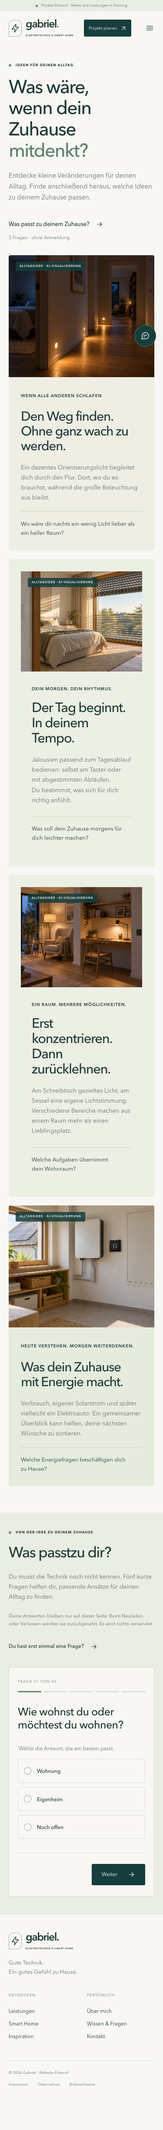
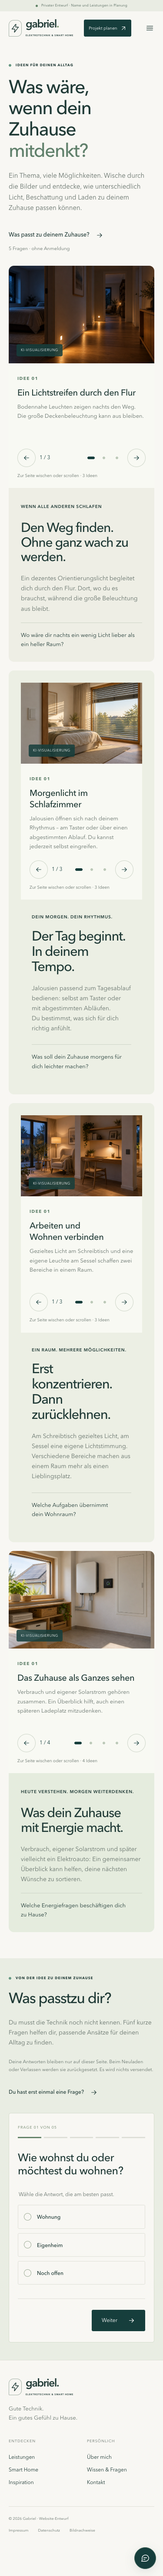
Inspirationsgalerien mit umlaufenden Bildern und 13 Alltagseindruecken ergaenzen

diff --git a/public/assets/inspiration-gallery.js b/public/assets/inspiration-gallery.js
@@ -1,0 +1,74 @@
+document.querySelectorAll('[data-gallery]').forEach(gallery => {
+  const track = gallery.querySelector('.gallery-track');
+  const slides = [...track.children];
+  const count = slides.length;
+  const dots = [...gallery.querySelectorAll('[data-gallery-dot]')];
+  const status = gallery.querySelector('.gallery-position');
+  const reducedMotion = matchMedia('(prefers-reduced-motion: reduce)');
+  let current = 0;
+  let settleTimer;
+
+  // A copy on either end lets a native swipe continue beyond the last image.
+  function clone(slide) {
+    const copy = slide.cloneNode(true);
+    copy.dataset.galleryClone = '';
+    copy.setAttribute('aria-hidden', 'true');
+    copy.inert = true;
+    return copy;
+  }
+  track.prepend(clone(slides[count - 1]));
+  track.append(clone(slides[0]));
+  track.classList.add('is-enhanced');
+
+  function update(index) {
+    current = ((index % count) + count) % count;
+    status.textContent = `${current + 1} / ${count}`;
+    dots.forEach((dot, i) => dot.setAttribute('aria-pressed', String(i === current)));
+    slides.forEach((slide, i) => slide.setAttribute('aria-hidden', String(i !== current)));
+  }
+  function jump(position) {
+    track.scrollTo({ left: position * track.getBoundingClientRect().width, behavior: 'instant' });
+  }
+  function settle() {
+    clearTimeout(settleTimer);
+    const width = track.getBoundingClientRect().width;
+    if (!width) return;
+    const position = Math.round(track.scrollLeft / width);
+    // Ignore partial swipes until native snapping has reached an image edge.
+    if (Math.abs(track.scrollLeft - position * width) > 2) return;
+    update(position - 1);
+    if (position === 0 || position === count + 1) jump(current + 1);
+  }
+  function go(position) {
+    track.scrollTo({
+      left: Math.max(0, Math.min(count + 1, position)) * track.getBoundingClientRect().width,
+      behavior: reducedMotion.matches ? 'instant' : 'smooth',
+    });
+  }
+  function step(delta) {
+    const position = Math.round(track.scrollLeft / track.getBoundingClientRect().width);
+    // Normalize a boundary copy before another quick button press.
+    if (position === 0) { jump(count); go(count + delta); }
+    else if (position === count + 1) { jump(1); go(1 + delta); }
+    else go(position + delta);
+  }
+  gallery.querySelector('[data-gallery-prev]').addEventListener('click', () => step(-1));
+  gallery.querySelector('[data-gallery-next]').addEventListener('click', () => step(1));
+  dots.forEach((dot, i) => dot.addEventListener('click', () => go(i + 1)));
+  track.addEventListener('keydown', event => {
+    if (!['ArrowLeft', 'ArrowRight', 'Home', 'End'].includes(event.key)) return;
+    event.preventDefault();
+    if (event.key === 'Home') go(1);
+    else if (event.key === 'End') go(count);
+    else step(event.key === 'ArrowRight' ? 1 : -1);
+  });
+  track.addEventListener('scroll', () => {
+    clearTimeout(settleTimer);
+    settleTimer = setTimeout(settle, 150);
+  }, { passive: true });
+  track.addEventListener('scrollend', settle);
+  new ResizeObserver(() => jump(current + 1)).observe(track);
+  jump(1);
+  update(0);
+  gallery.querySelector('.gallery-controls').hidden = false;
+});

diff --git a/public/assets/inspiration-gallery.css b/public/assets/inspiration-gallery.css
@@ -1,0 +1,30 @@
+.inspiration-grid > article { min-width: 0; border-radius: 12px; }
+.inspiration-gallery { min-width: 0; background: #f8f9f3; align-self: stretch; display: flex; flex-direction: column; }
+.gallery-track { display: flex; overflow-x: auto; overscroll-behavior-x: contain; scroll-snap-type: x mandatory; min-width: 0; direction: ltr; }
+.gallery-track.is-enhanced { scrollbar-width: none; }
+.gallery-track.is-enhanced::-webkit-scrollbar { display: none; }
+.gallery-track:focus-visible { outline: 3px solid #60806b; outline-offset: -3px; }
+.gallery-slide { flex: 0 0 100%; min-width: 0; scroll-snap-align: start; scroll-snap-stop: always; }
+.gallery-photo { position: relative; overflow: hidden; }
+.inspiration-gallery .gallery-photo img { width: 100%; height: auto; min-height: 0; aspect-ratio: 3 / 2; object-fit: cover; }
+.gallery-image-label { position: absolute; left: 18px; bottom: 16px; padding: 7px 10px; background: #163e3cdb; border-radius: 4px; font-size: 8px; letter-spacing: .1em; color: white; }
+.gallery-slide figcaption { padding: 24px 26px 12px; }
+.gallery-kicker { color: #60806b; font-size: 10px; letter-spacing: .14em; font-weight: 700; }
+.gallery-slide h3 { font-size: 21px; line-height: 1.3; margin: 9px 0; letter-spacing: -.02em; }
+.inspiration-gallery .gallery-slide p { color: var(--muted); font-size: 13px; line-height: 1.65; max-width: none; margin: 0; }
+.gallery-controls { display: flex; align-items: center; gap: 12px; padding: 12px 26px 0; margin-top: auto; }
+.gallery-controls[hidden] { display: none; }
+.gallery-controls > button { display: grid; place-items: center; flex: 0 0 42px; height: 42px; border: 1px solid #cdd5c8; border-radius: 50%; background: transparent; color: var(--petrol); cursor: pointer; }
+.gallery-controls .icon { width: 18px; height: 18px; }
+.gallery-position { font-size: 12px; font-variant-numeric: tabular-nums; color: var(--petrol); white-space: nowrap; }
+.gallery-dots { display: flex; justify-content: center; margin-left: auto; }
+.gallery-dots button { border: 0; border-radius: 50%; background: transparent; padding: 0; width: 30px; height: 36px; display: grid; place-items: center; cursor: pointer; }
+.gallery-dots span { width: 6px; height: 6px; border-radius: 50%; background: #bcc9b8; }
+.gallery-dots [aria-pressed="true"] span { background: var(--petrol); width: 17px; border-radius: 5px; }
+.inspiration-gallery .gallery-hint { padding: 12px 26px 20px; margin: 0; font-size: 10px; color: var(--muted); }
+@media (max-width: 680px) {
+  .gallery-slide figcaption { padding: 20px 20px 10px; }
+  .gallery-controls { padding: 10px 20px 0; gap: 9px; }
+  .gallery-slide h3 { font-size: 20px; }
+  .inspiration-gallery .gallery-hint { padding: 12px 20px 20px; }
+}

diff --git a/docs/INSPIRATION-BILDPROMPTS.md b/docs/INSPIRATION-BILDPROMPTS.md
@@ -33,3 +33,87 @@ Datei: [`public/assets/inspiration-energie.jpg`](../public/assets/inspiration-en
 ```text
 Use case: photorealistic-natural. Asset type: landscape 3:2 editorial architectural photograph for a German residential electrical and smart-home website. Calm realistic modest contemporary European home, warm oak and off-white plaster, muted natural materials, restrained premium photography. No people, no logos, no words, no watermark, no collage, no diagrams, no exaggerated mansion, no futuristic gadgets. A tidy modest private home's finished utility room, a closed flush-mounted off-white electrical distribution cabinet in the wall, no open parts, a compact closed unbranded wall-mounted inverter with properly enclosed neat conduits and a small closed energy display showing ONLY a simple abstract icon, no letters, no numbers, no plotted values. View through small side window shows a sliver of ordinary tiled roof with solar modules outside. Natural daylight, oak utility shelf, technically plausible normal residential scale. Main subject is clear planning and understanding of household energy, no wallbox or car, no exposed wires or tools.
 ```
+
+## Bildergalerien vom 30.10.2026
+
+Acht weitere Motive mit dem eingebauten Imagegen-Werkzeug erstellt. Originale bleiben erhalten; für die Website mit `sips` als JPEG, Qualität 82, 1536 × 1024 gespeichert. Alle Motive wurden visuell geprüft. Die Galerie verwendet zusätzlich die vier bisherigen Inspirationsbilder und das bestehende Carport-Motiv `public/assets/energie-wallbox.jpg`; dessen Prompt steht in [BILDPROMPTS.md](BILDPROMPTS.md). Insgesamt 13 Ansichten. Keine realen Kundenprojekte oder Produktnachweise.
+
+### nachtlicht-treppe
+
+Datei: `public/assets/inspiration-nachtlicht-treppe.jpg`
+
+Original: `/Users/gabrielyousef/.codex/generated_images/01a18eb2-a3e2-7fe1-a41d-a6e11549c668/exec-e2becb17-685f-405c-8a20-87e00760ca1a.png`
+
+```text
+Use case: photorealistic-natural. Asset type: landscape 3:2 editorial architectural photograph for a German residential electrical and smart-home inspiration gallery. Realistic modest contemporary European home, oak and off-white plaster, calm natural materials, professional residential photography. No people, logos, text, watermark, collage, futuristic gadgets, exposed wiring or exaggerated mansion. Night interior of a modest home staircase with safe enclosed steps and simple handrail, small recessed warm wall lights low along the staircase gently illuminating each tread. Main ceiling lights off. Wide view clearly showing practical orientation lighting and the entire stair route, quiet blue shadows.
+```
+
+### nachtlicht-bett
+
+Datei: `public/assets/inspiration-nachtlicht-bett.jpg`
+
+Original: `/Users/gabrielyousef/.codex/generated_images/01a18eb2-a3e2-7fe1-a41d-a6e11549c668/exec-c24829c9-2931-47c5-a9c9-73ff89c31cc6.png`
+
+```text
+Use case: photorealistic-natural. Asset type: landscape 3:2 editorial architectural photograph for a German residential electrical and smart-home inspiration gallery. Realistic modest contemporary European home, oak and off-white plaster, calm natural materials, professional residential photography. No people, logos, text, watermark, collage, futuristic gadgets, exposed wiring or exaggerated mansion. Serene bedroom at night, a discreet concealed warm low-level light beneath the bed frame softly illuminating the floor and a clear path toward the bedroom door. Main lights off, modest linen bed, calm dark blue ambient shadows, wide view of bed and floor. No bright LED color effects.
+```
+
+### beschattung-wohnen
+
+Datei: `public/assets/inspiration-beschattung-wohnen.jpg`
+
+Original: `/Users/gabrielyousef/.codex/generated_images/01a18eb2-a3e2-7fe1-a41d-a6e11549c668/exec-dadffa68-22b4-4c93-acf2-77d22bbdfb31.png`
+
+```text
+Use case: photorealistic-natural. Asset type: landscape 3:2 editorial architectural photograph for a German residential electrical and smart-home inspiration gallery. Realistic modest contemporary European home, oak and off-white plaster, calm natural materials, professional residential photography. No people, logos, text, watermark, collage, futuristic gadgets, exposed wiring or exaggerated mansion. A modest bright living room on a sunny afternoon, large windows with clearly visible exterior venetian blind slats tilted to shade direct sun while admitting soft daylight. Sofa, houseplant and oak sideboard, simple unbranded wall push button. Interior three-quarter view, focus on slats and pleasant shaded room.
+```
+
+### beschattung-terrasse
+
+Datei: `public/assets/inspiration-beschattung-terrasse.jpg`
+
+Original: `/Users/gabrielyousef/.codex/generated_images/01a18eb2-a3e2-7fe1-a41d-a6e11549c668/exec-ce9688a5-0cb8-4908-89c1-1dfa3b3ff608.png`
+
+```text
+Use case: photorealistic-natural. Asset type: landscape 3:2 editorial architectural photograph for a German residential electrical and smart-home inspiration gallery. Realistic modest contemporary European home, oak and off-white plaster, calm natural materials, professional residential photography. No people, logos, text, watermark, collage, futuristic gadgets, exposed wiring or exaggerated mansion. View from a modest family home's terrace towards its open living room, a simple extended exterior fabric retractable awning shading outdoor table and chairs. Natural summer daylight, realistic restrained architecture, ordinary garden, relaxed practical sun protection. Clearly show awning and shaded terrace, no luxury swimming pool.
+```
+
+### licht-kueche
+
+Datei: `public/assets/inspiration-licht-kueche.jpg`
+
+Original: `/Users/gabrielyousef/.codex/generated_images/01a18eb2-a3e2-7fe1-a41d-a6e11549c668/exec-22cbb3c9-5c8b-4031-b02d-9c0683146e3c.png`
+
+```text
+Use case: photorealistic-natural. Asset type: landscape 3:2 editorial architectural photograph for a German residential electrical and smart-home inspiration gallery. Realistic modest contemporary European home, oak and off-white plaster, calm natural materials, professional residential photography. No people, logos, text, watermark, collage, futuristic gadgets, exposed wiring or exaggerated mansion. A practical modest contemporary kitchen at blue hour. Concealed warm white lighting beneath upper cupboards clearly illuminating the worktop, separate pendants above a small dining table. No decorative color strips, no open wiring, no people. Medium wide eye-level view showing two useful distinct lighting areas.
+```
+
+### licht-lesen
+
+Datei: `public/assets/inspiration-licht-lesen.jpg`
+
+Original: `/Users/gabrielyousef/.codex/generated_images/01a18eb2-a3e2-7fe1-a41d-a6e11549c668/exec-7b6ec26c-da9f-41f9-a956-8b05b26f2112.png`
+
+```text
+Use case: photorealistic-natural. Asset type: landscape 3:2 editorial architectural photograph for a German residential electrical and smart-home inspiration gallery. Realistic modest contemporary European home, oak and off-white plaster, calm natural materials, professional residential photography. No people, logos, text, watermark, collage, futuristic gadgets, exposed wiring or exaggerated mansion. A cozy compact living room reading corner at evening, comfortable armchair with a switched-on floor reading lamp directing warm light onto a book resting on the seat, separate very soft indirect light behind a low sideboard. Main overhead light off, calm oak and linen interior, no words on book, eye level photograph.
+```
+
+### wallbox-garage
+
+Datei: `public/assets/inspiration-wallbox-garage.jpg`
+
+Original: `/Users/gabrielyousef/.codex/generated_images/01a18eb2-a3e2-7fe1-a41d-a6e11549c668/exec-aece74a8-9854-4e49-9403-0721ba73bf78.png`
+
+```text
+Use case: photorealistic-natural. Asset type: landscape 3:2 editorial architectural photograph for a German residential electrical and smart-home inspiration gallery. Realistic modest contemporary European home, oak and off-white plaster, calm natural materials, professional residential photography. No people, logos, text, watermark, collage, futuristic gadgets, exposed wiring or exaggerated mansion. Inside an ordinary tidy private single-car garage, unbranded closed compact wallbox mounted on the side wall with one neatly routed charging cable visibly plugged into the charging port of a parked electric car. Car shown in three-quarter rear side view with wallbox and connection both clearly visible. Proper enclosed conduit, practical clear walking route, closed electrical equipment, neutral daylight from open garage door, no visible logos or writing.
+```
+
+### wallbox-einfahrt
+
+Datei: `public/assets/inspiration-wallbox-einfahrt.jpg`
+
+Original: `/Users/gabrielyousef/.codex/generated_images/01a18eb2-a3e2-7fe1-a41d-a6e11549c668/exec-147adcb9-5cfe-40aa-a1c0-11b3c19c8967.png`
+
+```text
+Use case: photorealistic-natural. Asset type: landscape 3:2 editorial architectural photograph for a German residential electrical and smart-home inspiration gallery. Realistic modest contemporary European home, oak and off-white plaster, calm natural materials, professional residential photography. No people, logos, text, watermark, collage, futuristic gadgets, exposed wiring or exaggerated mansion. Outside an ordinary European family home, a compact closed unbranded weatherproof wallbox mounted on a plain exterior house wall beside a paved driveway, one charging cable plugged into the near-side charging port of a parked electric car. Natural overcast daylight, a little garden planting, no garage or roof overhead. Wide three-quarter view clearly showing wall mounting, wallbox and connected vehicle, cable clear of public walkway, no logos or text.
+```

diff --git a/README.md b/README.md
@@ -20,7 +20,7 @@ Der erste lokale Entwurf ist umgesetzt: helle Gestaltung mit Petrol, echte Unter
 - Erweiterte Smart-Home-Seite mit eigenen Bildern, Funktionsübersicht, Bedienung, Einstieg im Bestand oder Neubau, fünf Antworten und Assistentenhinweis. Drei interaktive Alltagssituationen steuern eine illustrierte Raumansicht mit zwei Lampen. Warm, gedimmt und Aus lassen sich zusätzlich direkt ausprobieren.
 - Darunter eine Jalousien-Demo mit drei Räumen und Beispiel-App: einzeln öffnen, halb schließen oder schließen sowie alle gemeinsam öffnen und schließen. Fenster, Raumhelligkeit und angezeigte Zustände ändern sich zusammen. Auf Mobil bleibt die Fensteransicht beim Bedienen sichtbar.
 - Dezentes bewegtes Lichtspiel im Hintergrund des Startseiteneinstiegs, mit Pausentaste. Bei reduzierter Bewegung oder ohne JavaScript bleibt es statisch; außerhalb des sichtbaren Bereichs und bei verborgenem Tab pausiert die Bewegung.
-- Inspiration mit vier eigenen Alltagsszenen: Orientierungslicht, Morgenroutine, Arbeits- und Wohnlicht sowie Energieüberblick.
+- Inspiration mit vier seitlich bedienbaren Bildergalerien und 13 Ansichten: Nachtlicht, Beschattung, Wohnlicht sowie Energie und Laden. Je drei bis vier Ideen mit eigenem Text, Pfeilen, Bildpunkten und Endlosschleife; Wallboxen in Garage, Einfahrt und Carport.
 - Kurzer Berater mit fünf Fragen, begründeten Ansätzen und bearbeitbarer Übergabe in den Projektplaner.
 - Über mich, Kontakt sowie ein Wissensbereich mit 50 Fragen, sieben Themenfiltern, Volltextsuche, verwandten Fragen und Technik-ABC. Acht Fragen bilden den Einstieg; der vollständige Katalog lässt sich aus- und wieder einklappen.
 - Moderner Projektplaner mit Wünschen am Anfang, drei erklärten Schritten, Fortschrittsbalken, Themenkarten und Hilfe zur Orientierung. Exportierbare Zusammenfassung mit den Wünschen zuerst.
@@ -49,7 +49,7 @@ npm run check
 npm test
 ```
 
-`check` erstellt alle 18 HTML-Seiten einschließlich Fehlerseite und prüft interne Verweise. 17 Playwright-Prüfungen decken Entwurfsformat, Navigation, Projektplaner, Export, Suche, Alltagssituationen und Nutzung ohne JavaScript ab. Hinzu kommen Beraterfragen, Auswahlgrenzen, Rücknavigation, Übernahme, Schutz vorhandener Eingaben und Kopierfehler. Die Leistungsseiten werden einschließlich Navigationspfad, Sprungzielen und Rückkehr zur Übersicht ohne JavaScript geprüft. Die neuen Prüfungen kontrollieren Jalousien auf Desktop und Mobil, Tastaturbedienung, Lichtspiel-Pause, reduzierte Bewegung und die Darstellung ohne JavaScript. Auf diesem Mac verwenden die Browserprüfungen das vorhandene Google Chrome; auf anderen Geräten ist gegebenenfalls einmalig `npx playwright install chromium` nötig.
+`check` erstellt alle 18 HTML-Seiten einschließlich Fehlerseite und prüft interne Verweise. 20 Playwright-Prüfungen decken Entwurfsformat, Navigation, Projektplaner, Export, Suche, Alltagssituationen und Nutzung ohne JavaScript ab. Hinzu kommen Beraterfragen, Auswahlgrenzen, Rücknavigation, Übernahme, Schutz vorhandener Eingaben und Kopierfehler. Die Leistungsseiten werden einschließlich Navigationspfad, Sprungzielen und Rückkehr zur Übersicht ohne JavaScript geprüft. Die neuen Prüfungen kontrollieren Jalousien auf Desktop und Mobil, Tastaturbedienung, Lichtspiel-Pause, reduzierte Bewegung und die Darstellung ohne JavaScript. Auf diesem Mac verwenden die Browserprüfungen das vorhandene Google Chrome; auf anderen Geräten ist gegebenenfalls einmalig `npx playwright install chromium` nötig.
 
 Der Wissensbereich wird zusätzlich auf Suche mit mehreren Wörtern, Themenfilter, den vollständigen Katalog, verwandte Fragen, Direktlinks und Nutzung ohne JavaScript geprüft. Aufbau und fachliche Quellen stehen in [docs/WISSEN.md](docs/WISSEN.md).
 
@@ -62,6 +62,7 @@ Der Wissensbereich wird zusätzlich auf Suche mit mehreren Wörtern, Themenfilte
 - `src/pages.mjs`: Inhalte der einzelnen Seiten.
 - `src/service-page.mjs`, `src/service-details.mjs` und `src/service-illustrations.mjs`: ausführliche Leistungsseiten, Themeninhalte und eigene Vektorskizzen; Gestaltung in `public/assets/services.css`.
 - `src/shading.mjs` sowie `public/assets/smart-demos.js` und `smart-demos.css`: Jalousien-Demo und Startseiten-Lichtspiel.
+- `src/inspiration-gallery.mjs` sowie `public/assets/inspiration-gallery.js` / `.css`: Galerieinhalte, seitliches Scrollen und Endlosschleife.
 - `src/inspiration.mjs` und `src/planner.mjs`: Inspirationsseite und wiederverwendbarer Planer.
 - `public/assets/project-draft.js`: gemeinsame Fragen, Ergebnisregeln und geprüftes Entwurfsformat.
 - `public/assets/advisor.js` und `public/assets/planner.js`: Berater und Planer im Browser.
@@ -87,11 +88,11 @@ Die großen wiederkehrenden Projektaufrufe wurden auf Gabriels Wunsch entfernt. 
 
 ## Nächster Schritt
 
-Die ausgebaute Wissensseite mit Gabriel ansehen und Rückmeldungen zu Inhalt, Suche und Gestaltung aufnehmen. Der modernisierte Projektplaner bleibt ebenfalls zur Durchsicht bereit. Das Startbild und der Hover-Effekt sind bestätigt. Jalousien-Demo und Lichtspiel sind in [docs/SMART-HOME-DEMO.md](docs/SMART-HOME-DEMO.md) dokumentiert. Auch die sechs erweiterten Leistungsseiten können weiter verfeinert werden; Aufbau und Inhalte stehen in [docs/LEISTUNGEN.md](docs/LEISTUNGEN.md). Inspiration, Berater und bearbeitbare Planerübergabe sind lokal umgesetzt; der Planer öffnet direkt unter dem Ergebnis. Beim Neuladen oder Verlassen werden die Angaben zurückgesetzt; es gibt keine Browser-Speicherung und keinen Versand.
+Die neuen Inspirationsgalerien mit Gabriel ansehen und Rückmeldungen zu Bildauswahl, Texten und Bedienung aufnehmen. Die ausgebaute Wissensseite bleibt ebenfalls zur Durchsicht bereit. Der modernisierte Projektplaner bleibt ebenfalls zur Durchsicht bereit. Das Startbild und der Hover-Effekt sind bestätigt. Jalousien-Demo und Lichtspiel sind in [docs/SMART-HOME-DEMO.md](docs/SMART-HOME-DEMO.md) dokumentiert. Auch die sechs erweiterten Leistungsseiten können weiter verfeinert werden; Aufbau und Inhalte stehen in [docs/LEISTUNGEN.md](docs/LEISTUNGEN.md). Inspiration, Berater und bearbeitbare Planerübergabe sind lokal umgesetzt; der Planer öffnet direkt unter dem Ergebnis. Beim Neuladen oder Verlassen werden die Angaben zurückgesetzt; es gibt keine Browser-Speicherung und keinen Versand.
 
 Der konkrete Wiedereinstieg und die Abgrenzung zwischen bestehender Umsetzung und besprochenem Konzept stehen in [docs/PROJEKTSTAND.md](docs/PROJEKTSTAND.md).
 
-Fragen, Ergebnisregeln und Entwurfsformat stehen in [docs/INSPIRATIONSBERATER.md](docs/INSPIRATIONSBERATER.md). Die vier mit dem eingebauten Imagegen-Werkzeug erzeugten Inspirationsmotive liegen unter `public/assets/inspiration-*.jpg`; Dateipfade und vollständige Prompts stehen in [docs/INSPIRATION-BILDPROMPTS.md](docs/INSPIRATION-BILDPROMPTS.md).
+Fragen, Ergebnisregeln und Entwurfsformat stehen in [docs/INSPIRATIONSBERATER.md](docs/INSPIRATIONSBERATER.md). Die zwölf mit dem eingebauten Imagegen-Werkzeug erzeugten Inspirationsmotive liegen unter `public/assets/inspiration-*.jpg`; Dateipfade und vollständige Prompts stehen in [docs/INSPIRATION-BILDPROMPTS.md](docs/INSPIRATION-BILDPROMPTS.md).
 
 Später sollen wiederkehrende Fragen aus dem echten Chatbot als „Top-Fragen“ mit kurzen Antworten beim Berater ergänzt werden. Bei wiederholt fehlenden Angaben kann auch der Fragenablauf gezielt erweitert werden. Dieser Ausbau und die KI-Anbindung sind noch offen.
 

diff --git a/docs/PROJEKTSTAND.md b/docs/PROJEKTSTAND.md
@@ -1,6 +1,16 @@
 # Projektstand
 
-Stand: 30.10.2026 · Wissenssuche direkt über den Fragen, 50 Antworten
+Stand: 30.10.2026 · Inspirationsgalerien mit 13 Ansichten
+
+## Inspirationsgalerien (30.10.2026)
+
+- Gabriels Auftrag: pro Inspirationsthema drei bis vier unterschiedliche Ansichten mit kurzen Erklärungen, seitlich vor und zurück wechseln, nach dem letzten wieder zum ersten Bild. Wallbox in Garage und draußen als konkrete Beispiele.
+- Vier eigenständige Galerien: Nachtlicht (Flur, Treppe, Bett), Beschattung (Schlafzimmer, Wohnraum, Terrasse), Licht (Arbeitsplatz, Küche, Lesen), Energie und Laden (Überblick, Garage, Einfahrt, Carport). Insgesamt 13 Bilder mit individuellen Titeln, Alttexten und Erläuterungen.
+- Acht neue KI-Motive; bisherige vier Inspirationsmotive und vorhandenes Carport-Bild wiederverwendet. Dateien und vollständige Prompts in [INSPIRATION-BILDPROMPTS.md](INSPIRATION-BILDPROMPTS.md), maschinenlesbar in `inspiration-gallery-assets.json`. Keine Kundenprojekte oder Produktzusagen.
+- Native horizontale Scrollgalerien mit Touch/Trackpad, Pfeilen, Bildpunkten und Tastatur (Links/Rechts, Anfang/Ende). Die Endlosschleife verwendet ausgeblendete Randkopien. Kein automatischer Bildwechsel. Reduzierte Bewegung berücksichtigt; ohne JavaScript bleiben alle 13 Bilder mit ihren Texten seitlich erreichbar, ohne Endlosschleife.
+- Inhalte und HTML: `src/inspiration-gallery.mjs`; Verhalten und Gestaltung: `public/assets/inspiration-gallery.js` und `.css`, nur auf der Inspirationsseite geladen. Berater und Planer bleiben erhalten.
+- Geprüft: 18 Seiten und 545 interne Verweise, alle 20 Playwright-Prüfungen erfolgreich. Neue Prüfungen decken den umlaufenden Wechsel in beide Richtungen, individuelle Texte und geladene Bilder, unabhängige Galerien, Tastatur, natives Scrollen, Größenwechsel, reduzierte Bewegung und alle Bilder ohne JavaScript ab. Desktop/Mobil visuell geprüft, einschließlich aller acht neuen Motive. Layout von 320 bis 1440 Pixeln ohne horizontalen Seitenüberlauf; Vorschauansichten aktualisiert.
+- Branch: `feat/inspiration-bildgalerien`, aufbauend auf `ff834a0`. Kein Merge nach main und keine Veröffentlichung. Nächster gemeinsamer Schritt: die Galerien unter `/inspiration/` ansehen, Bildauswahl und Bedienung mit Gabriel abstimmen.
 
 ## Sitzungsabschluss am 30.10.2026
 
@@ -154,7 +164,7 @@ Die Website bleibt ein lokaler privater Entwurf. Veröffentlichung, kostenpflich
 - Über mich, Kontakt, Entwurfsseiten für Impressum und Datenschutz sowie Bildnachweise.
 - Assistenteneinstieg als ausdrücklich gekennzeichnete Vorschau, auf Mobilgeräten als kleines Symbol.
 - Keine großen wiederkehrenden Abschlussblöcke mit Projektaufruf. Planerzugänge oben rechts, auf der Startseite und auf der Kontaktseite bleiben erhalten. Auf der Inspirationsseite ist die Übernahme Bestandteil des Beraterergebnisses.
-- Alle 13 KI-Motive sind Visualisierungen; sie weisen weder Kundenprojekte noch konkrete Produktkompatibilität nach.
+- Alle 21 KI-Motive sind Visualisierungen; sie weisen weder Kundenprojekte noch konkrete Produktkompatibilität nach.
 
 ## Technischer Einstieg
 
@@ -188,7 +198,7 @@ Fragen und Verhalten stehen in [INSPIRATIONSBERATER.md](INSPIRATIONSBERATER.md).
 
 ## Nächster gemeinsamer Schritt
 
-Beim Wiedereinstieg an der Wissensseite unter `/wissen/` anknüpfen: Gabriel sieht sich die Suche direkt über den Fragen, die Themenfilter und den auf 50 Antworten erweiterten Katalog an. Danach sein Feedback umsetzen. Der modernisierte Projektplaner unter `/anfrage/` bleibt ebenfalls zur Durchsicht bereit. Der Hover-Effekt ist bestätigt und bleibt so; die drei Infopunkte sind statisch. Das Startbild ist ausdrücklich bestätigt. Keine allgemeine Ideenliste ohne konkreten neuen Auftrag abarbeiten.
+Aktueller nächster Schritt: neue Inspirationsgalerien unter `/inspiration/` mit Gabriel ansehen. Die bisherige Rückmeldung zur Wissensseite bleibt offen: Gabriel sieht sich die Suche direkt über den Fragen, die Themenfilter und den auf 50 Antworten erweiterten Katalog an. Danach sein Feedback umsetzen. Der modernisierte Projektplaner unter `/anfrage/` bleibt ebenfalls zur Durchsicht bereit. Der Hover-Effekt ist bestätigt und bleibt so; die drei Infopunkte sind statisch. Das Startbild ist ausdrücklich bestätigt. Keine allgemeine Ideenliste ohne konkreten neuen Auftrag abarbeiten.
 
 Gabriels ergänzende Idee ist festgehalten: Wiederkehrende Fragen aus dem späteren echten Chatbot sollen als „Top-Fragen“ mit kurzen Antworten beim Berater ergänzt werden. Fehlt für die Beratung regelmäßig eine Angabe, kann auch der Fragenablauf gezielt erweitert werden. Es werden dafür jetzt keine häufigen Kundenfragen behauptet. Die spätere Auswertung und Übernahme sind noch nicht implementiert.
 

diff --git a/docs/BILDQUELLEN.md b/docs/BILDQUELLEN.md
@@ -8,7 +8,7 @@ Sechs Technikmotive wurden mit dem eingebauten Imagegen-Werkzeug erstellt: einge
 
 ## Eigene Inspirationsmotive
 
-Vier weitere eigenständige Inspirationsmotive wurden mit dem eingebauten Imagegen-Werkzeug erstellt: nächtliches Orientierungslicht, Schlafzimmer im Morgenlicht, Arbeits- und Leseecke sowie ein Energieüberblick im Hauswirtschaftsraum. Sie liegen als `public/assets/inspiration-*.jpg` vor. Alle Dateipfade und Prompts stehen in [INSPIRATION-BILDPROMPTS.md](INSPIRATION-BILDPROMPTS.md). Zwei weitere eigene Motive für die Smart-Home-Seite zeigen einen vernetzten Küchen-/Essbereich und die Bedienung am Wandtaster. Dateien und Prompts stehen in [SMART-HOME-BILDER.md](SMART-HOME-BILDER.md). Mit dem neuen Startbild verwendet der Entwurf 13 gekennzeichnete KI-Visualisierungen.
+Vier weitere eigenständige Inspirationsmotive wurden mit dem eingebauten Imagegen-Werkzeug erstellt: nächtliches Orientierungslicht, Schlafzimmer im Morgenlicht, Arbeits- und Leseecke sowie ein Energieüberblick im Hauswirtschaftsraum. Sie liegen als `public/assets/inspiration-*.jpg` vor. Alle Dateipfade und Prompts stehen in [INSPIRATION-BILDPROMPTS.md](INSPIRATION-BILDPROMPTS.md). Zwei weitere eigene Motive für die Smart-Home-Seite zeigen einen vernetzten Küchen-/Essbereich und die Bedienung am Wandtaster. Dateien und Prompts stehen in [SMART-HOME-BILDER.md](SMART-HOME-BILDER.md). Acht weitere Motive ergänzen die Inspirationsgalerien: Nachtlicht an Treppe und Bett, Beschattung im Wohnraum und auf der Terrasse, Küchen- und Leselicht sowie Wallboxen in Garage und Einfahrt. Das vorhandene Carport-Motiv wird ebenfalls in der Galerie verwendet. Mit dem neuen Startbild verwendet der Entwurf 21 gekennzeichnete KI-Visualisierungen.
 
 ## Startbild: Elektrotechnik im Zuhause
 
